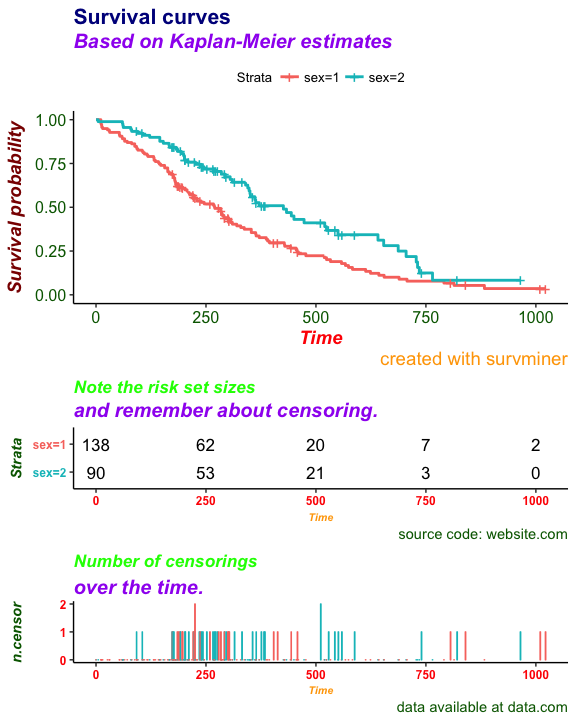
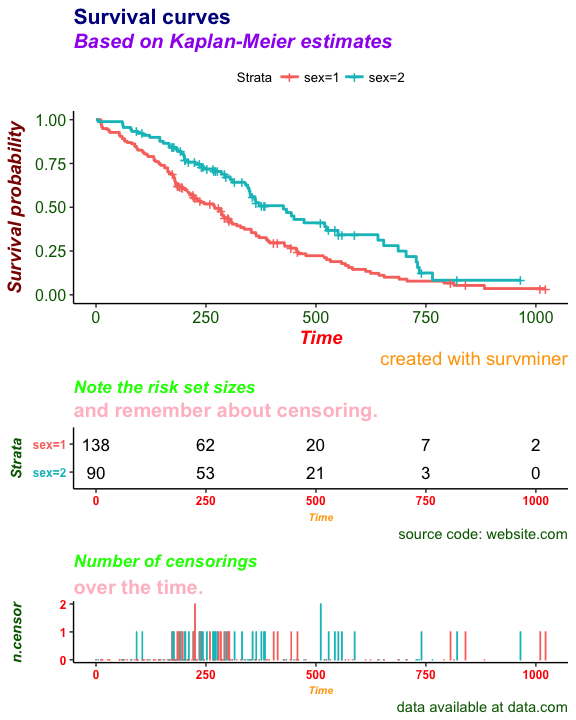
sutitle replaced by subtile #129, #144

Changed region(s): [[0.125, 0.55, 0.6562, 0.5806], [0.125, 0.7944, 0.3438, 0.825]]

diff --git a/README.md b/README.md
@@ -48,6 +48,7 @@ Load survminer:
 
 ``` r
 library("survminer")
+# Loading required package: ggplot2
 ```
 
 ggsurvplot: Drawing survival curves
@@ -57,6 +58,7 @@ ggsurvplot: Drawing survival curves
 
 ``` r
 require("survival")
+# Loading required package: survival
 fit <- survfit(Surv(time, status) ~ sex, data = lung)
 ```
 
@@ -210,7 +212,7 @@ ggsurvplot(fit, data = lung, main = "Survival curves", submain = "Based on Kapla
   risk.table.caption = "source code: website.com",
   risk.table.height = 0.35,
   font.risk.table.title = c(13, "bold.italic", "green"),
-  font.risk.table.sutitle = c(15, "bold", "pink"),
+  font.risk.table.subtitle = c(15, "bold", "pink"),
   font.risk.table.caption = c(11, "plain", "darkgreen"),
   font.risk.table.x = c(8, "bold.italic", "orange"),
   font.risk.table.y = c(11, "bold.italic", "darkgreen"),
@@ -222,7 +224,7 @@ ggsurvplot(fit, data = lung, main = "Survival curves", submain = "Based on Kapla
   ncensor.plot.caption = "data available at data.com",
   ncensor.plot.height = 0.35,
   font.ncensor.plot.title = c(13, "bold.italic", "green"),
-  font.ncensor.plot.sutitle = c(15, "bold", "pink"),
+  font.ncensor.plot.subtitle = c(15, "bold", "pink"),
   font.ncensor.plot.caption = c(11, "plain", "darkgreen"),
   font.ncensor.plot.x = c(8, "bold.italic", "orange"),
   font.ncensor.plot.y = c(11, "bold.italic", "darkgreen"),
